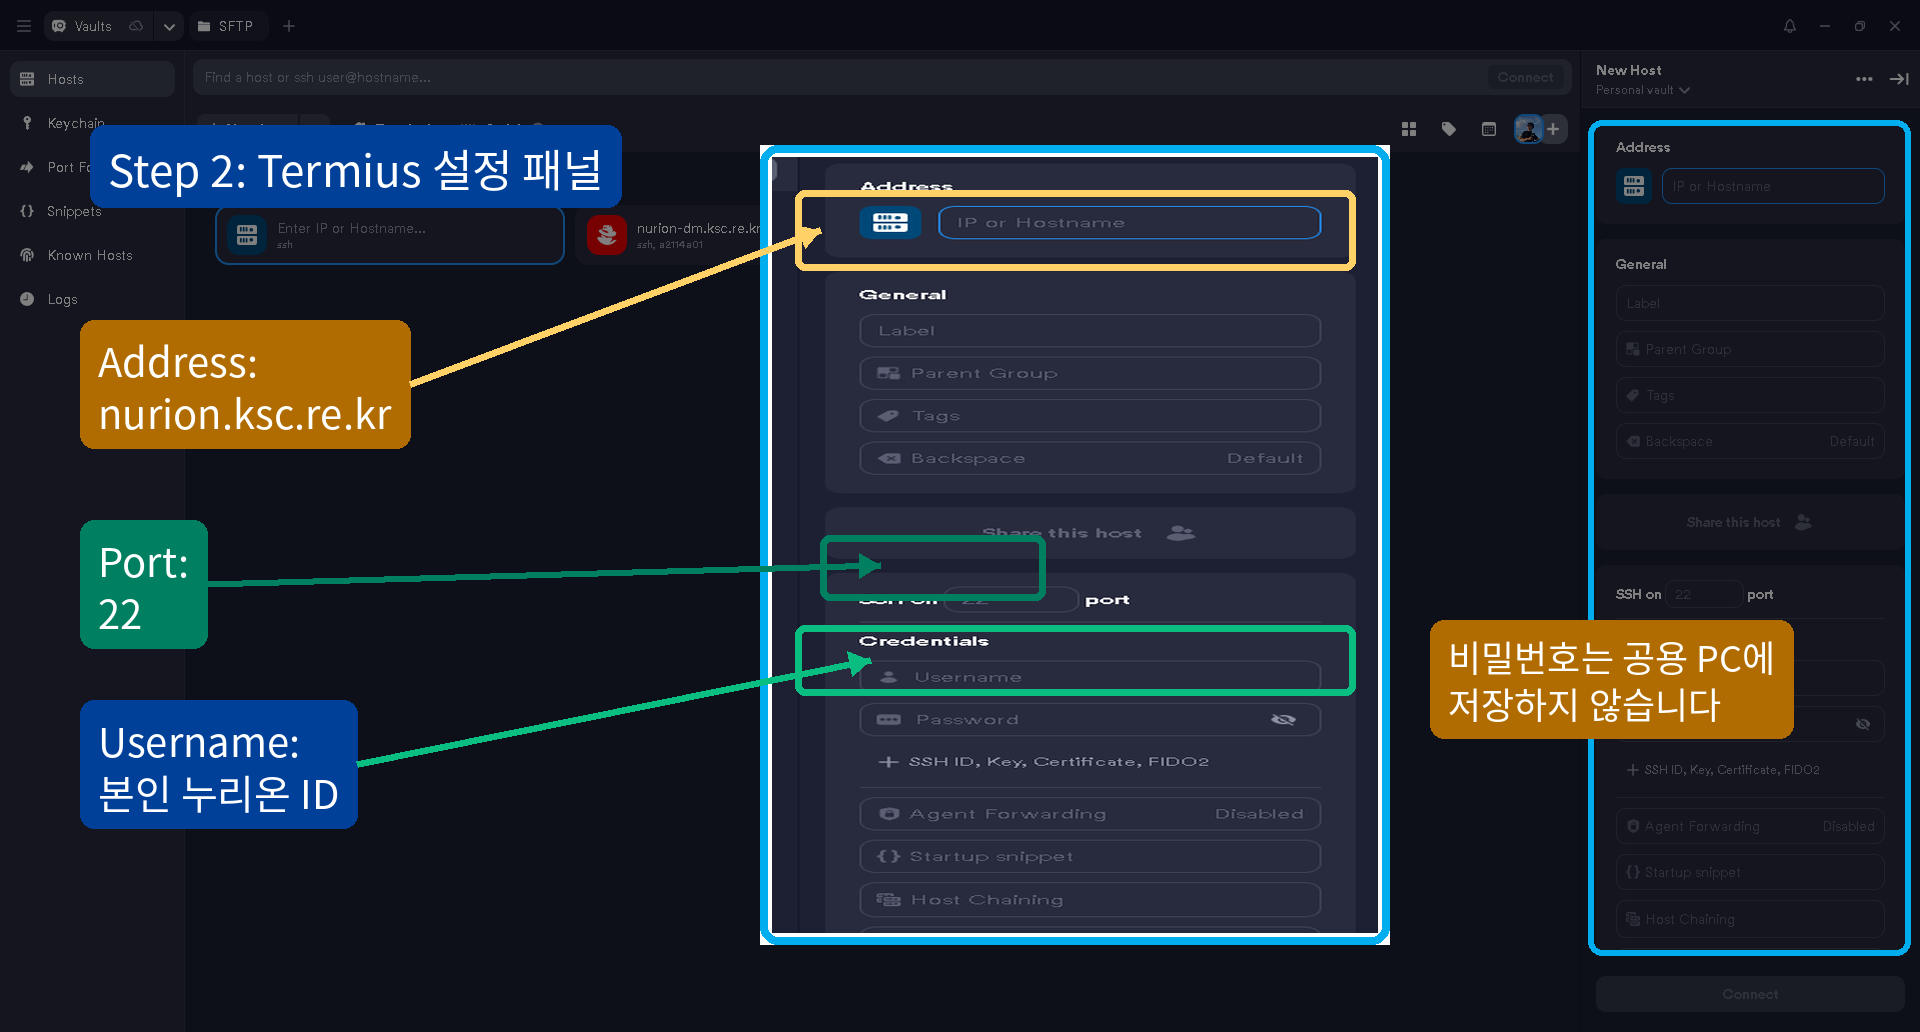
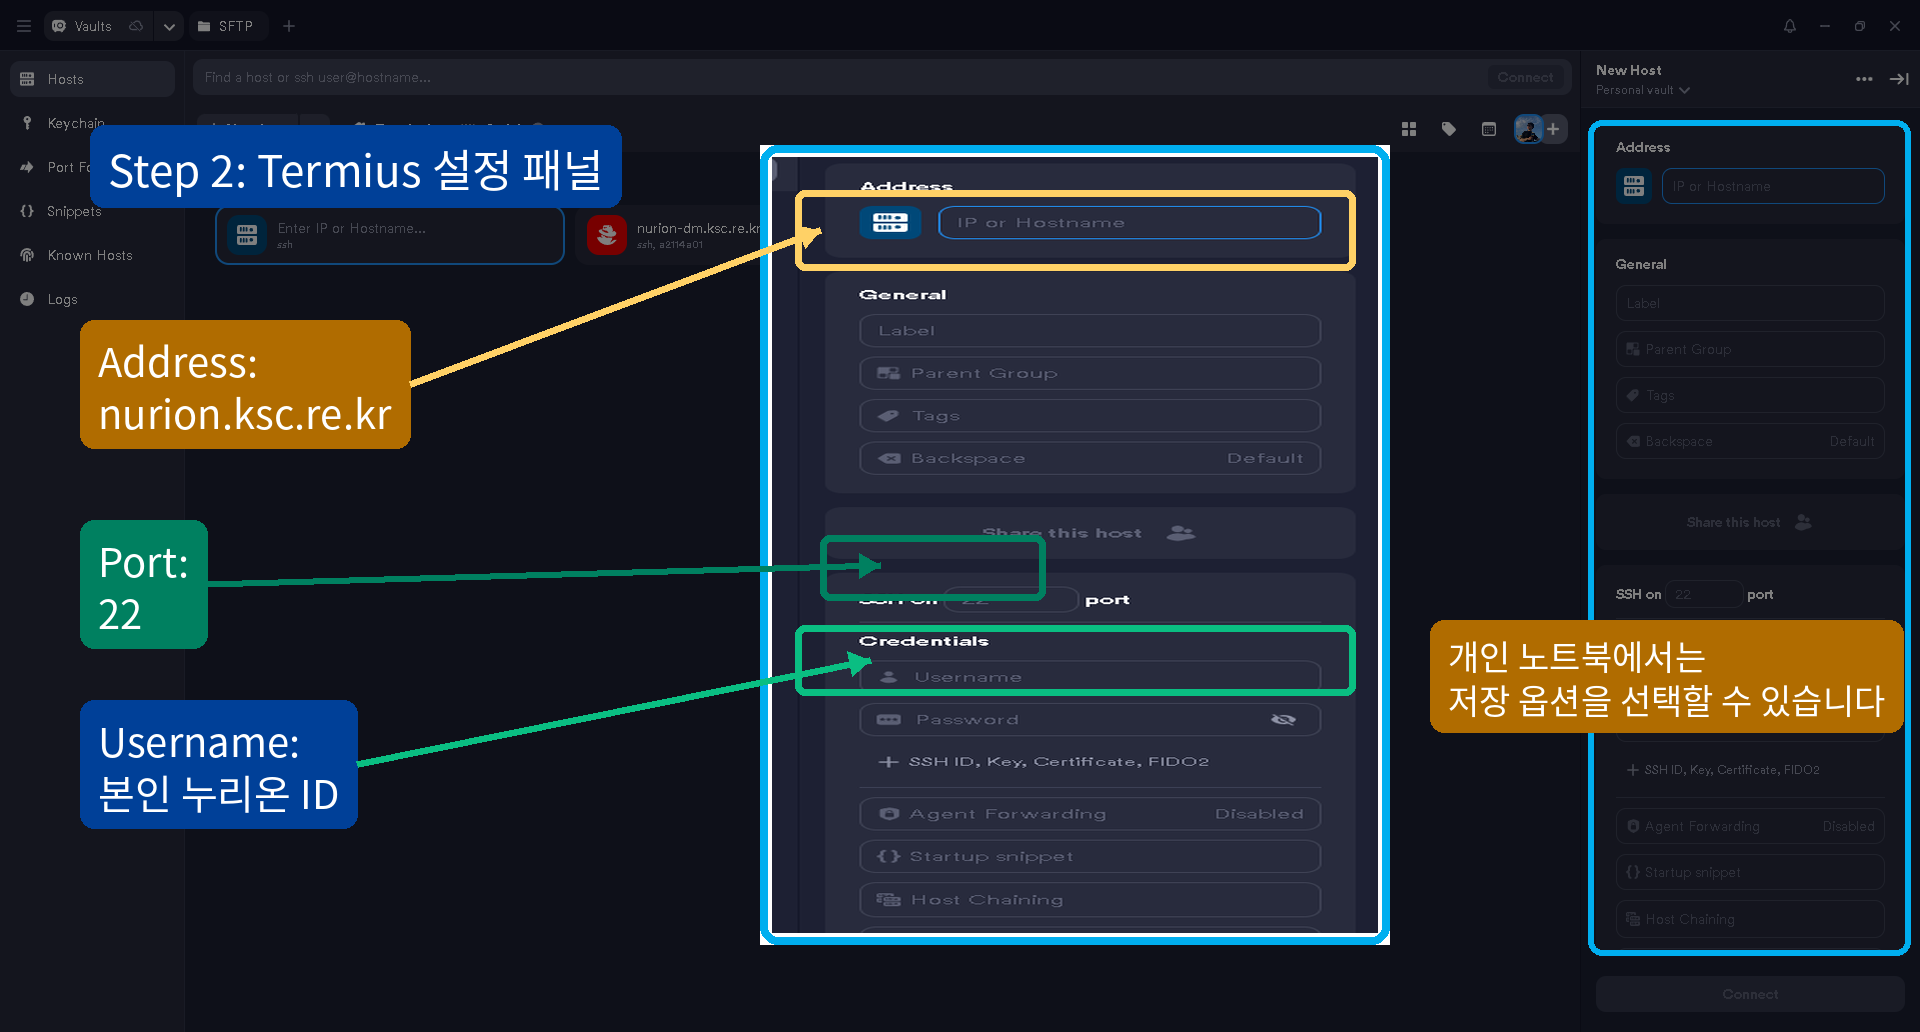
Update Termius save wording for laptops

Changed region(s): [[0.75, 0.5891, 1.0, 0.7132]]

diff --git a/docs/nurion_login_tutorial.html b/docs/nurion_login_tutorial.html
@@ -236,7 +236,7 @@
       <section class="slide" data-title="Termius host settings">
         <div class="slide-header"><span class="tag">Step 2</span><span>host settings</span></div>
         <h2>Termius host에는 누리온 주소와 본인 계정 정보를 넣습니다.</h2>
-        <div class="image-card dark" style="margin-top:34px"><img class="screenshot wide" src="termius-host-settings-annotated.png" alt="Annotated Termius host settings panel showing Address, Port, Username, and password-save warning" /></div>
+        <div class="image-card dark" style="margin-top:34px"><img class="screenshot wide" src="termius-host-settings-annotated.png" alt="Annotated Termius host settings panel showing Address, Port, Username, and optional save setting" /></div>
       </section>
 
       <section class="slide" data-title="Termius OTP prompt">
@@ -248,7 +248,7 @@
       <section class="slide" data-title="Termius password prompt">
         <div class="slide-header"><span class="tag">Real example</span><span>password screen</span></div>
         <h2>두 번째 입력 창에는 누리온 계정 비밀번호를 넣습니다.</h2>
-        <div class="image-card dark" style="margin-top:34px"><img class="screenshot wide" src="termius-password-prompt-annotated.png" alt="Annotated Termius password prompt showing password input and save option warning" /></div>
+        <div class="image-card dark" style="margin-top:34px"><img class="screenshot wide" src="termius-password-prompt-annotated.png" alt="Annotated Termius password prompt showing password input and optional save choice" /></div>
       </section>
 
       <section class="slide" data-title="First connection">

diff --git a/lessons/02-safe-practice-folder.md b/lessons/02-safe-practice-folder.md
@@ -58,7 +58,7 @@ Label:    Nurion login
 
 ![Termius OTP 입력 위치와 Continue 버튼이 표시된 예](../docs/termius-otp-prompt-annotated.png)
 
-![Termius 비밀번호 입력 위치와 저장 옵션 주의 표시](../docs/termius-password-prompt-annotated.png)
+![Termius 비밀번호 입력 위치와 개인 노트북 저장 선택 표시](../docs/termius-password-prompt-annotated.png)
 
 ![Termius 로그인 성공 후 프롬프트와 scratch 경고 위치가 표시된 예](../docs/termius-login-banner-annotated.png)
 